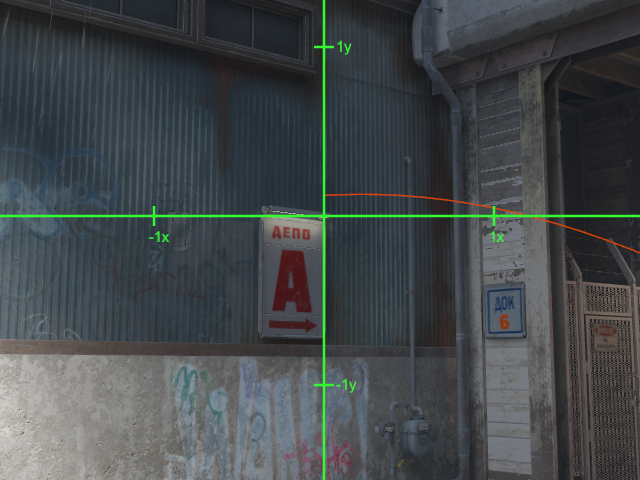
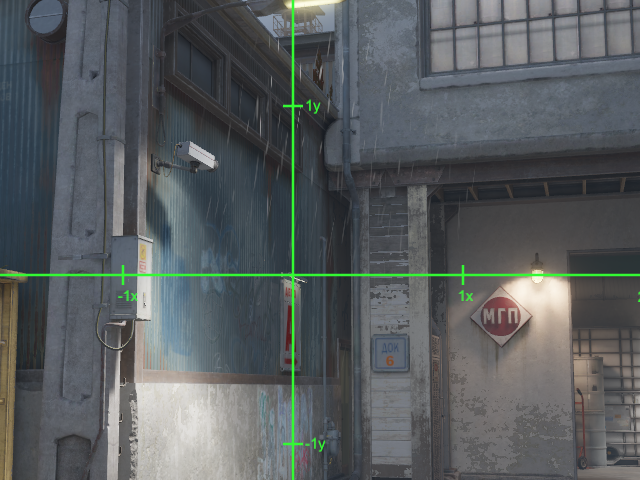
improved flash lineup

diff --git a/app/src/data/train.ts b/app/src/data/train.ts
@@ -70,12 +70,12 @@ export const trainMapScheme: MapScheme = {
       throwType: "jump",
       side: "t",
       coordinates: {
-        x: 538,
-        y: 334,
+        x: 440,
+        y: 335,
       },
       positionCoordinates: {
-        x: 352,
-        y: 191,
+        x: 365,
+        y: 133,
       },
     },
     {
